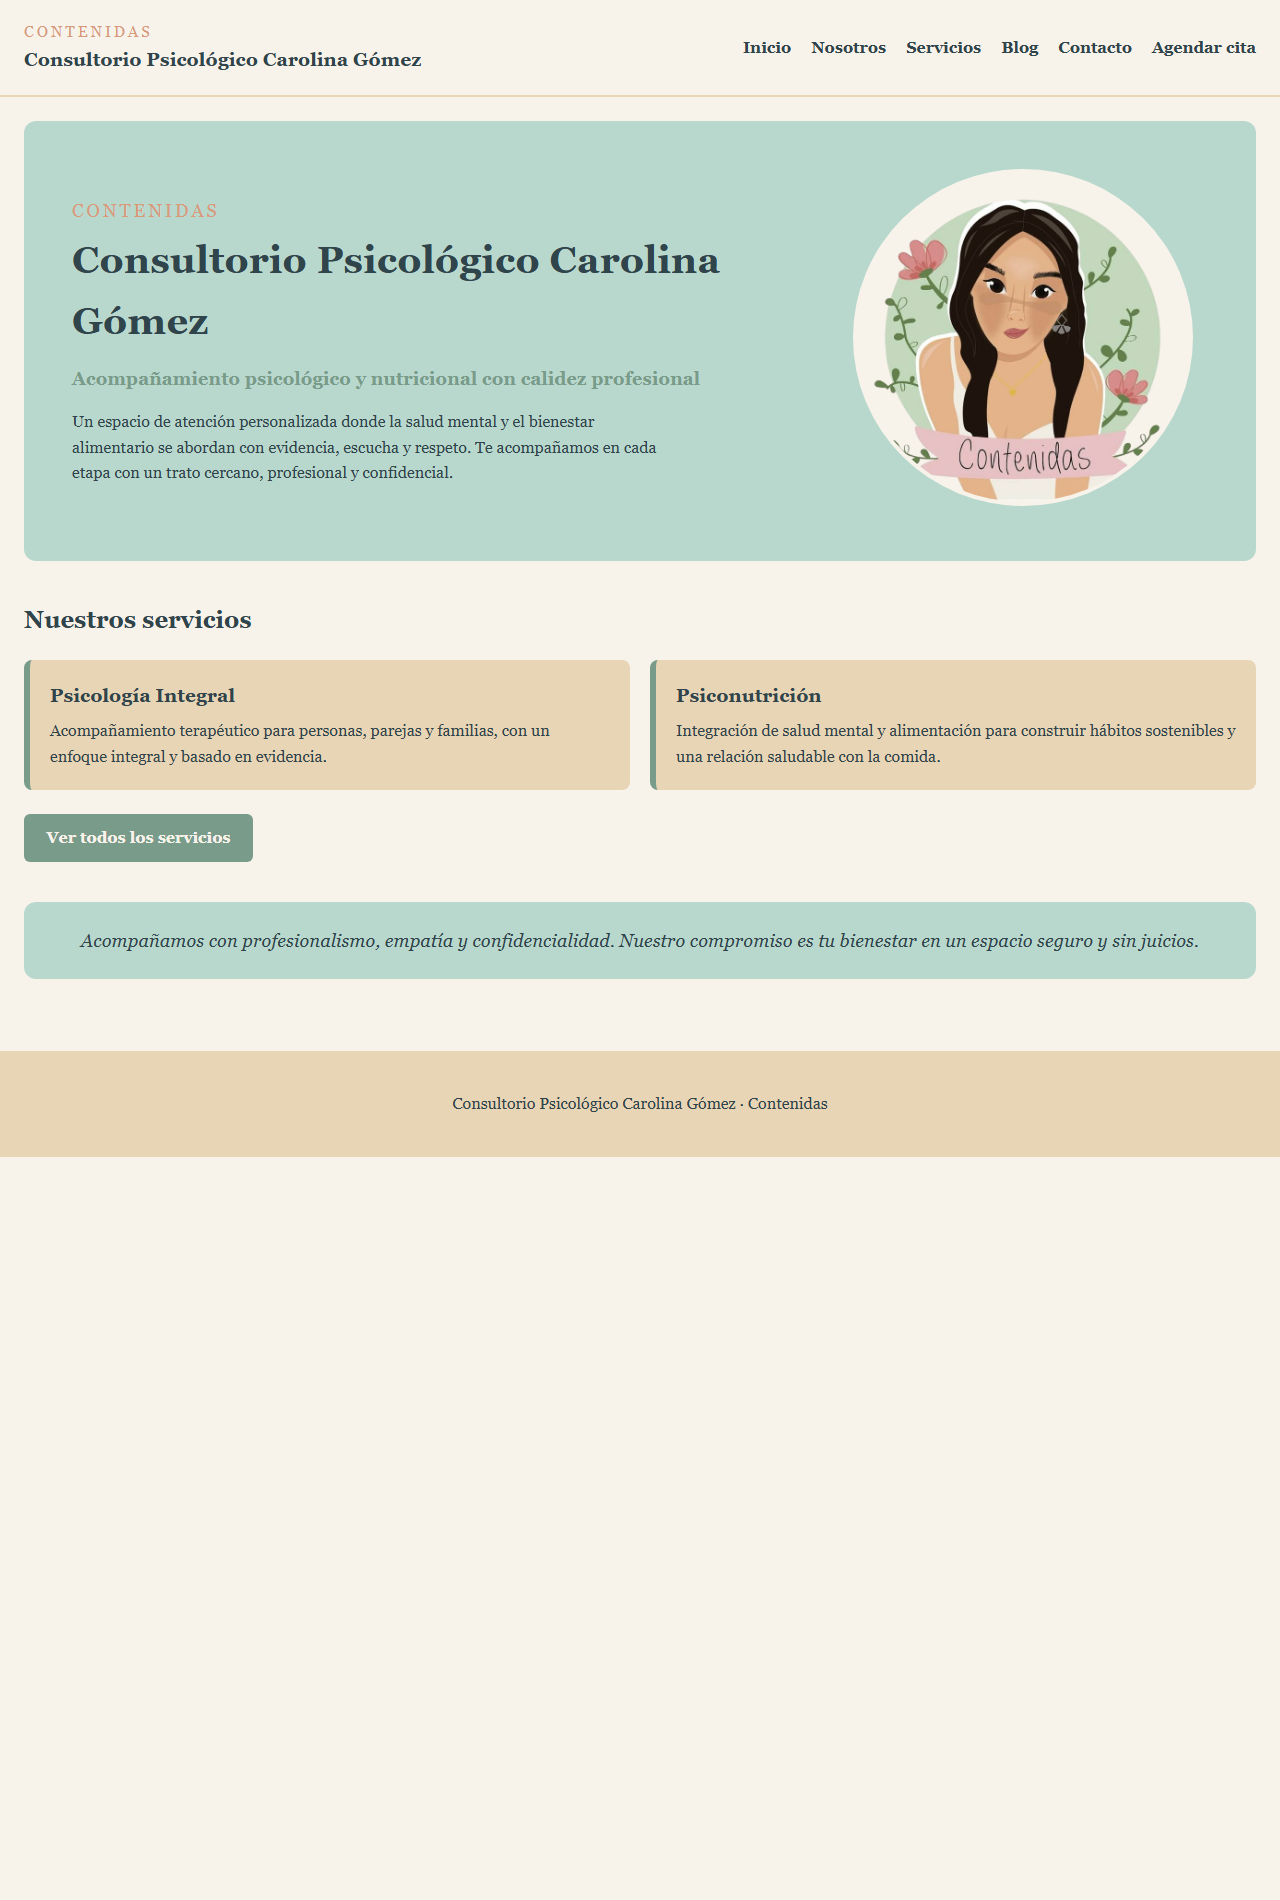
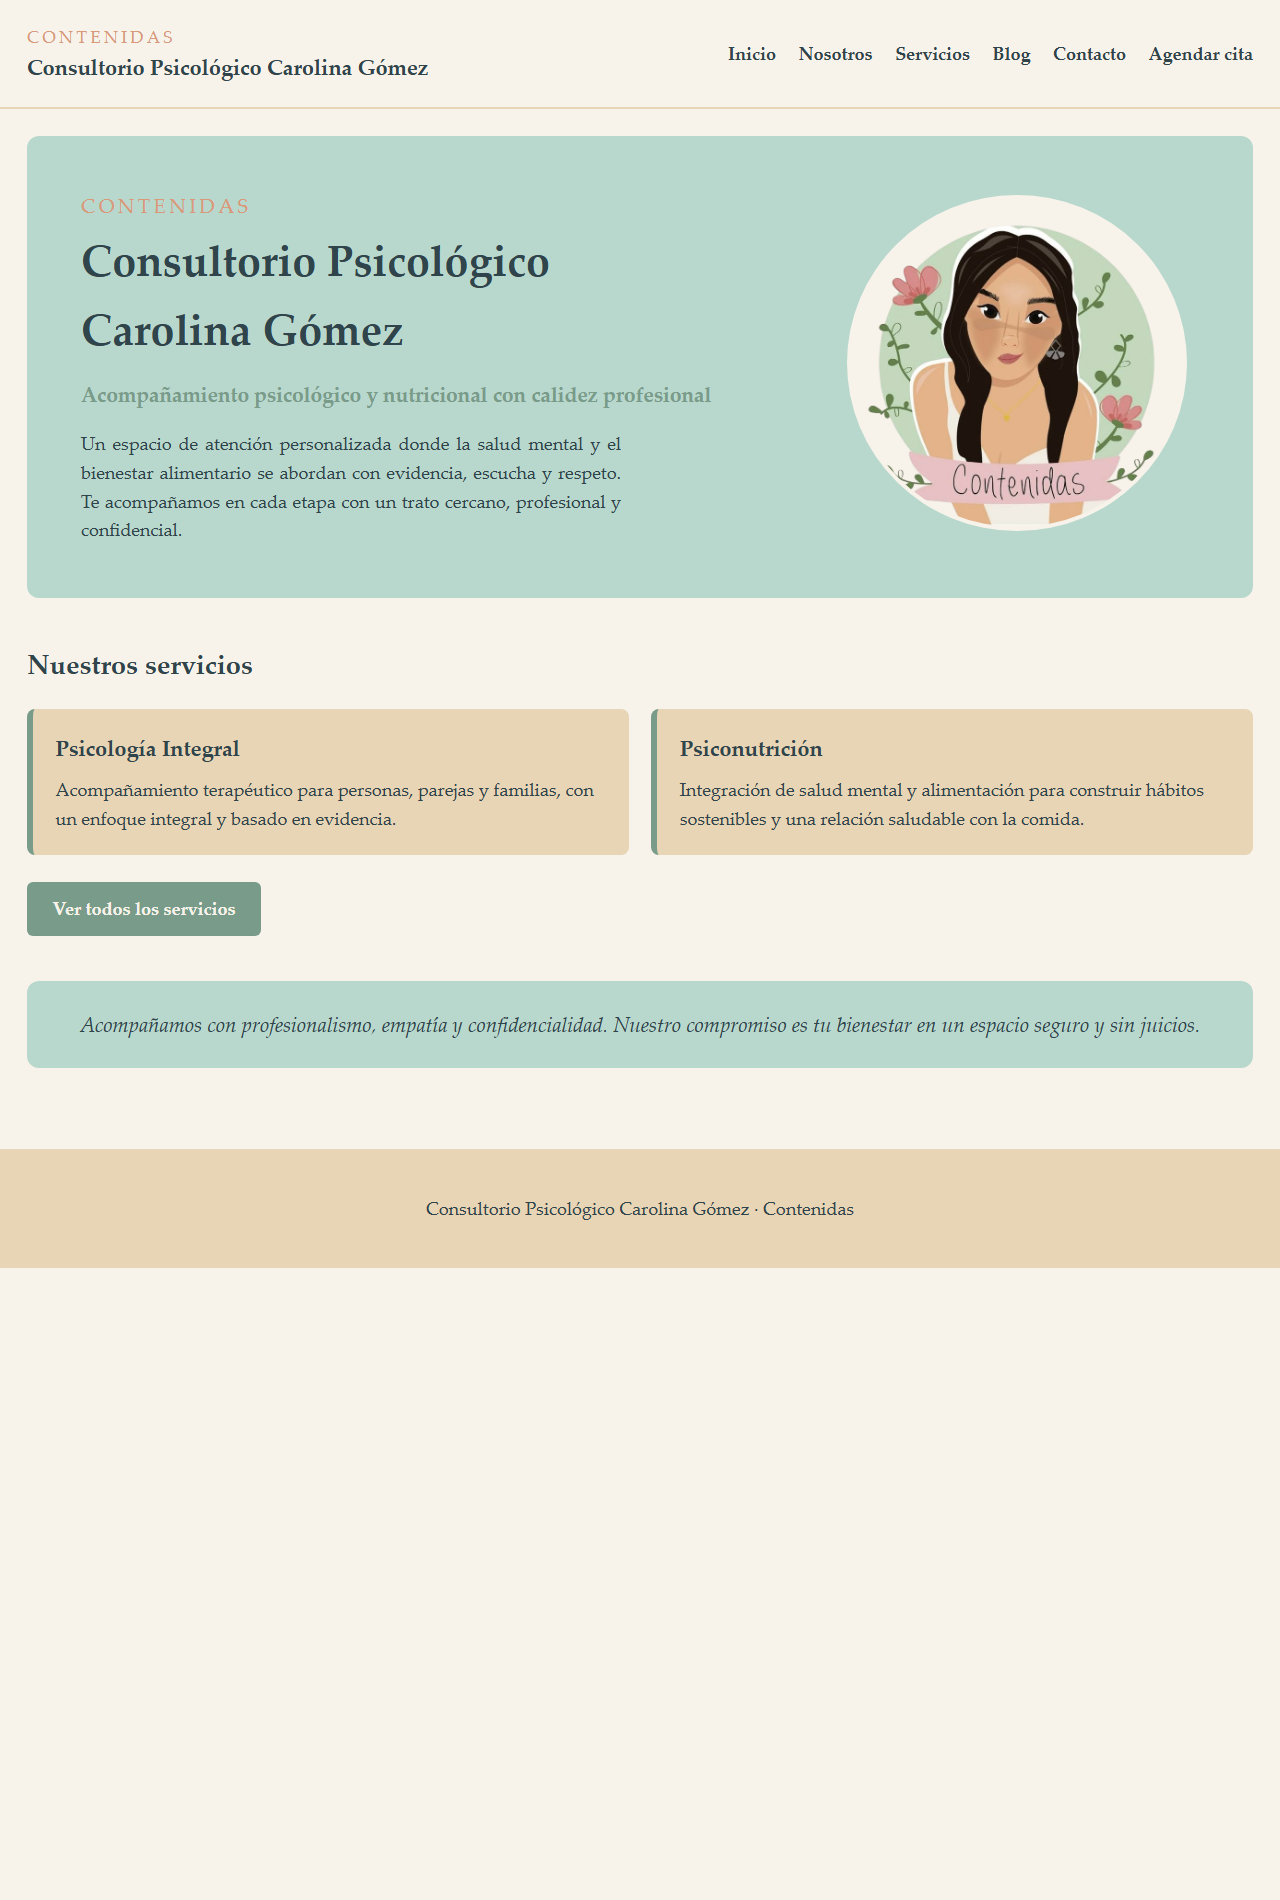
docs(HU-001): regenerate visual evidence with exact-width CDP captures

diff --git a/docs/evidencias/hu-001/qa-hu-001.md b/docs/evidencias/hu-001/qa-hu-001.md
@@ -2,8 +2,8 @@
 
 **HU:** HU-001
 **Rama:** `feature/hu-001`
-**Commits:** `2ebaa46` (docs), `85a0e9d` (feat), `3203047` (docs)
-**Fecha:** 2026-10-07
+**Commits:** `2ebaa46` (docs), `85a0e9d` (feat), `3203047` (docs), `aa5379c` (evidencia)
+**Fecha:** 2026-10-07 (actualizada tras el cambio tipográfico)
 
 ## Resumen
 
@@ -14,6 +14,25 @@
 | Servidor de desarrollo | `GET http://127.0.0.1:5000/` | **200** |
 | Evidencia visual | `docs/evidencias/hu-001/*.png` | **4 archivos, PASS** |
 
+## Cambio tipográfico verificado en esta iteración
+
+La portada adopta **Palatino** (`static/css/main.css`, `body { font-family: ... }`), el
+párrafo del hero queda **justificado** de forma acotada (solo `.hero__intro`) y la base
+tipográfica sube de **16 px a 18 px** con `html { font-size: 112.5% }`, según la
+decisión documentada en `docs/design-typography.md` y reflejada en la D10 de
+`specs/001_visualizar-pinicio/plan.md`.
+
+Comprobaciones objetivas sobre `escritorio-1280.png` y `movil-375.png`:
+
+- Justificación: los bordes derechos de las líneas completas del párrafo del hero son
+  619 / 613 / 618 / 619 / 613 px y la última línea corta termina en 168 px.
+- Cuerpo ampliado: el volumen de texto crece de forma medible respecto a la captura
+  anterior (p. ej. RF-6 en móvil pasa de 1344 a 1671 px de texto y el pie de 575 a
+  722), coherente con la escala 1.125×.
+- Título del hero equilibrado con `text-wrap: balance`: en escritorio la línea 1 mide
+  464 px y la línea 2 318 px, en lugar de una primera línea larga y «Gómez» solo.
+- `python -m pytest -q` → 29 PASS después del cambio.
+
 ## Cobertura de RF
 
 | RF | Verificación | Resultado |
@@ -23,7 +42,7 @@
 | RF-3 accesos a secciones | 6 enlaces en `<nav>`; cada `href` responde 200 | PASS |
 | RF-4 orientación institucional | sin `<form>`/`<input>`/admin; `POST /` → 405 | PASS |
 | RF-5 resumen de servicios | bloque completo + enlace «Ver todos los servicios» → 200 | PASS |
-| RF-6 frase de valores | literal presente en `GET /` | PASS |
+| RF-6 frase de valores | literal presente en `GET /` y texto visible en la banda de valores | PASS |
 | RF-7 marca secundaria | «Contenidas» visible y precede al `<h1>` | PASS |
 | RNF-1 responsive | `viewport`, `width`/`height` en `<img>`, `@media (max-width…)` | PASS |
 | RNF-2 paleta coherente | únicamente los 6 hex aprobados en `main.css` | PASS |
@@ -35,30 +54,42 @@
 
 | Archivo | Dimensiones | Contenido comprobado | Resultado |
 |---|---|---|---|
-| `escritorio-1280.png` | 1280×1900 | RF-1, RF-2, RF-3, RF-5, RF-6 (y=950-980) y pie (y=1055-1160); **sin botón «Menú»** (corrección de escritorio verificada) | PASS |
-| `movil-375.png` | 375×2800 | RF-1, RF-2, RF-5, RF-6 (y=1495-1525), pie (y=1650-1695), botón «Menú» con nav oculta por defecto | PASS |
-| `escritorio-1280-devtools.png` | recorte 759×598 | Viewport DevTools «Responsive 1280» (prueba del ancho de prueba) | PASS |
-| `movil-375-devtools.png` | recorte 716×600 | Viewport DevTools «Responsive 375» (prueba del ancho de prueba) | PASS |
+| `escritorio-1280.png` | 1280×1900 | cabecera (y=0-135) **sin botón «Menú»** (0 px salvia en la zona de nav), hero (y=136-597) con imagen (89 784 px fuera de fondo), servicios/tarjetas (y=598-881), botón (y=882-935), RF-6 (y=981-1067, 1660 px de texto) y pie RF-7 (y=1149-1267, 748 px de texto) | PASS |
+| `movil-375.png` | 375×2800 | cabecera con marca (y=0-131) y botón «Menú» (y=133-177), nav cerrado (0 px de texto en y=179-221), hero (y=222-1108), «Nuestros servicios» (y=1109-1219), tarjetas (y=1220-1422 e y=1446-1649), botón (y=1677-1730), RF-6 (y=1776-1994, 1671 px de texto) y pie RF-7 (y=2067-2214, 722 px de texto) | PASS |
+| `escritorio-1280-devtools.png` | recorte 759×598 | Viewport DevTools «Responsive 1280» (prueba del ancho de prueba); muestra la tipografía anterior al cambio | PASS |
+| `movil-375-devtools.png` | recorte 716×600 | Viewport DevTools «Responsive 375» con el menú móvil desplegado; muestra la tipografía anterior al cambio | PASS |
 
-Las dos capturas completas se obtuvieron con Chrome headless a ancho exacto (1280 y 375)
-y la presencia de cada bloque se verificó por muestreo de color, no por inspección
-visual. El estado inicial del nav en móvil está comprobado además por código:
+Las dos capturas completas se generan con Chrome headless **vía DevTools Protocol**
+(`Emulation.setDeviceMetricsOverride` + `Page.captureScreenshot`), por lo que el ancho
+renderizado es exactamente 1280 y 375 px. La presencia y posición de cada bloque se
+verificó por muestreo de color (bandas de fila) y conteo de píxeles de texto, no por
+inspección visual. El estado inicial del nav en móvil está comprobado además por código:
 `base.html` no incluye la clase `is-open` y `main.css` aplica `display: none` bajo
 `@media (max-width: 767px)`.
 
+Geometría comprobada en `movil-375.png`: el hero termina en x≈356 y el fondo de página
+ocupa x≥362 (padding de 24 px), es decir, sin desbordamiento horizontal a 375 px.
+
 ## Defectos encontrados
 
-- Ninguno funcional. La única incidencia detectada en la revisión visual (botón «Menú»
-  visible en escritorio) fue corregida en `static/css/main.css` y está verificada en
-  `escritorio-1280.png`.
+- Ninguno funcional. La única incidencia funcional detectada en la revisión visual
+  (botón «Menú» visible en escritorio) fue corregida en `static/css/main.css` y está
+  verificada en `escritorio-1280.png`.
+- **Defecto de metodología corregido**: las capturas anteriores se hacían con
+  `chrome --headless --window-size=375,2800`, pero Chrome 154 limita la ventana a un
+  mínimo de 500 px y recorta la imagen al ancho pedido; por eso el contenido aparecía
+  cortado en el borde derecho. No era un fallo de la maqueta (la captura DevTools a 375
+  y la geometría CDP lo demuestran). Las capturas se regeneraron con emulación CDP.
 
 ## Pendientes de cierre
 
-- [ ] Commit de la evidencia y de este informe.
+- [ ] Commit del cambio tipográfico (`static/css/main.css`, `docs/design-typography.md`,
+      `specs/001_visualizar-pinicio/plan.md`) y de la evidencia regenerada.
 - [ ] Aceptación de la HU.
 
 ## Veredicto
 
-**PASS** — los 29 tests y las 27 comprobaciones de contrato están en verde, y la
-evidencia visual cubre la totalidad de los RF y los casos límite. Quedan como trámite
-el commit de la evidencia y la aceptación de la HU.
+**PASS** — los 29 tests y las 27 comprobaciones de contrato están en verde tras el
+cambio tipográfico, y la evidencia visual regenerada cubre la totalidad de los RF y los
+casos límite con anchos de render exactos. Quedan como trámite el commit y la
+aceptación de la HU.

diff --git a/MEMORY.md b/MEMORY.md
@@ -11,8 +11,13 @@ aporte.
 - Tests: **29 PASS / 0 FAIL** (`python -m pytest -q`), Python 3.14.8 + Flask 3.1.3 +
   pytest 9.1.1.
 - Specs y plan en `specs/001_visualizar-pinicio/`.
-- Commits en `feature/hu-001`: `2ebaa46` (docs) y `85a0e9d` (feat). **Sin remoto
-  configurado**: no se puede hacer push.
+- Commits en `feature/hu-001`: `2ebaa46` (docs), `85a0e9d` (feat), `3203047` y
+  `aa5379c`. **Sin remoto configurado**: no se puede hacer push.
+- **Cambio tipográfico aplicado y sin commitar**: portada en Palatino, párrafo del
+  hero justificado (solo `.hero__intro`), **cuerpo base 18 px** (`html { font-size:
+  112.5% }`, escala 1.125× en todos los `rem`; cortes `px` intactos) y h1 del hero
+  equilibrado con `text-wrap: balance`. Decisiones en `docs/design-typography.md`,
+  D10 del plan actualizada.
 
 ## Decisiones (y por qué)
 - **Sin SQLite en HU-001**: la portada no escribe datos; el contenido vive en
@@ -33,9 +38,15 @@ aporte.
 - El PNG de la portada mide 720×713 (usado en `width`/`height` del `<img>`).
 - Si se sube una imagen con fondo blanco, se verá una caja sobre `#F7F3EA`: pedir fondo
   transparente.
+- **Chrome 154 headless no renderiza a menos de 500 px**: `--window-size=375` recorta la
+  imagen de 500 px y la maqueta parece desbordada (no lo está). Para capturas exactas
+  usar DevTools Protocol (`Emulation.setDeviceMetricsOverride`); script de apoyo en
+  `C:\Users\Jaz\AppData\Local\Temp\opencode\capture_cdp.ps1`.
 
 ## Próximos pasos
-- Evidencia de HU-001 **completa y PASS**: `docs/evidencias/hu-001/`
-  (`escritorio-1280.png`, `movil-375.png`, `*-devtools.png`, `qa-hu-001.md`).
+- Commit pendiente en `feature/hu-001`: `static/css/main.css`, `docs/design-typography.md`,
+  `specs/001_visualizar-pinicio/plan.md` y evidencia regenerada (29 tests PASS, 27
+  comprobaciones de contrato PASS, `qa-hu-001.md` actualizado).
 - Solicitar aceptación de HU-001; configurar remoto y hacer push cuando exista.
+- Regenerar las capturas `*-devtools.png` (siguen mostrando la tipografía anterior).
 - Arrancar HU-002 (Nosotros) sustituyendo el placeholder correspondiente.
